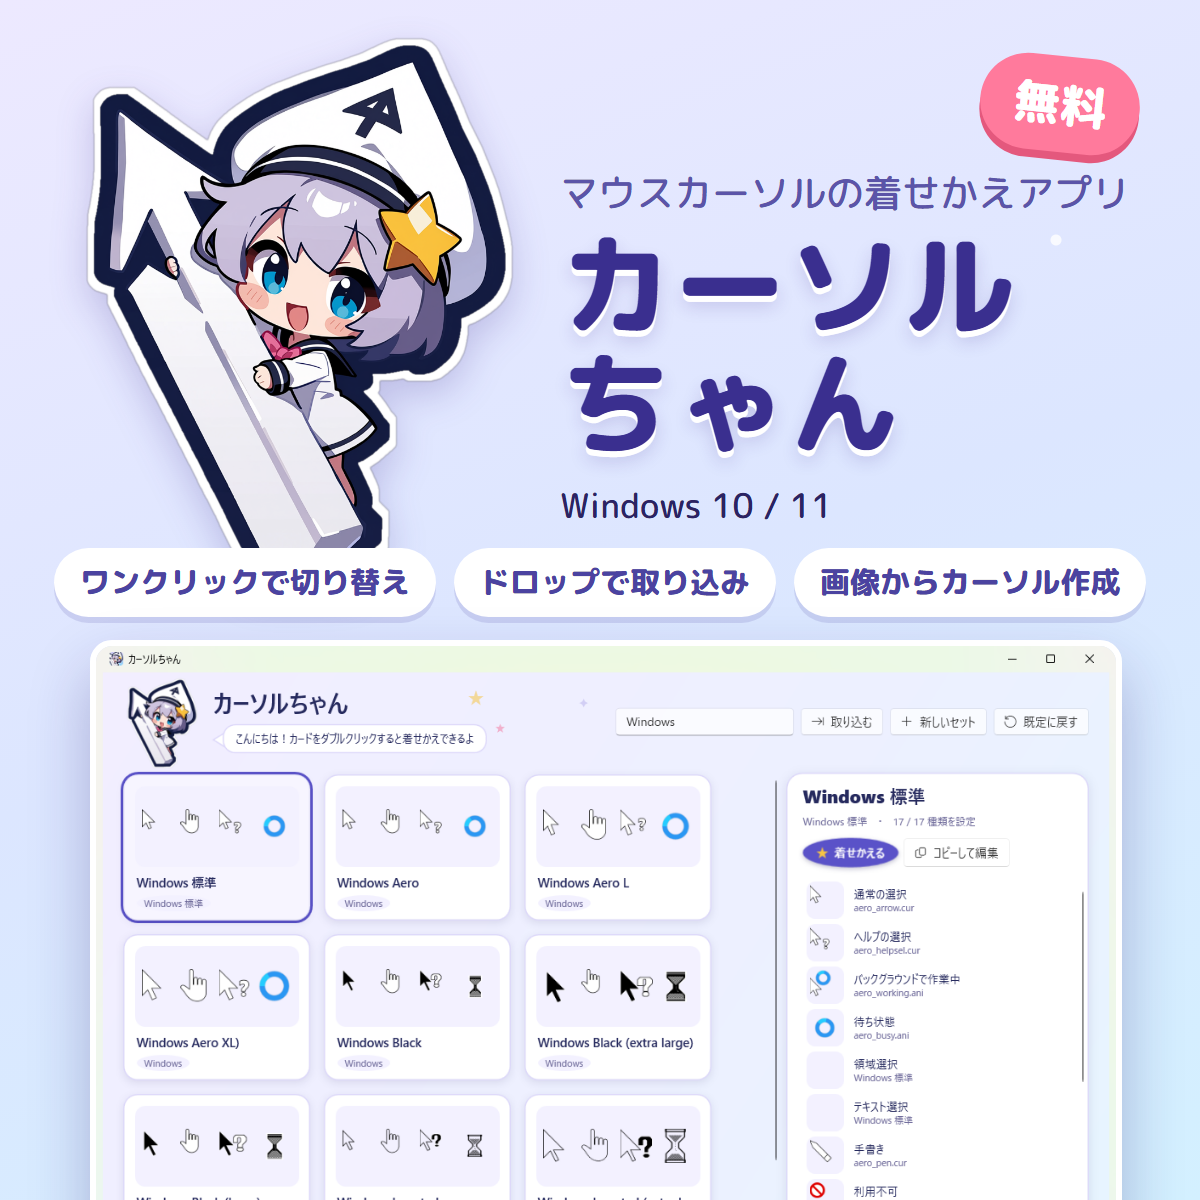
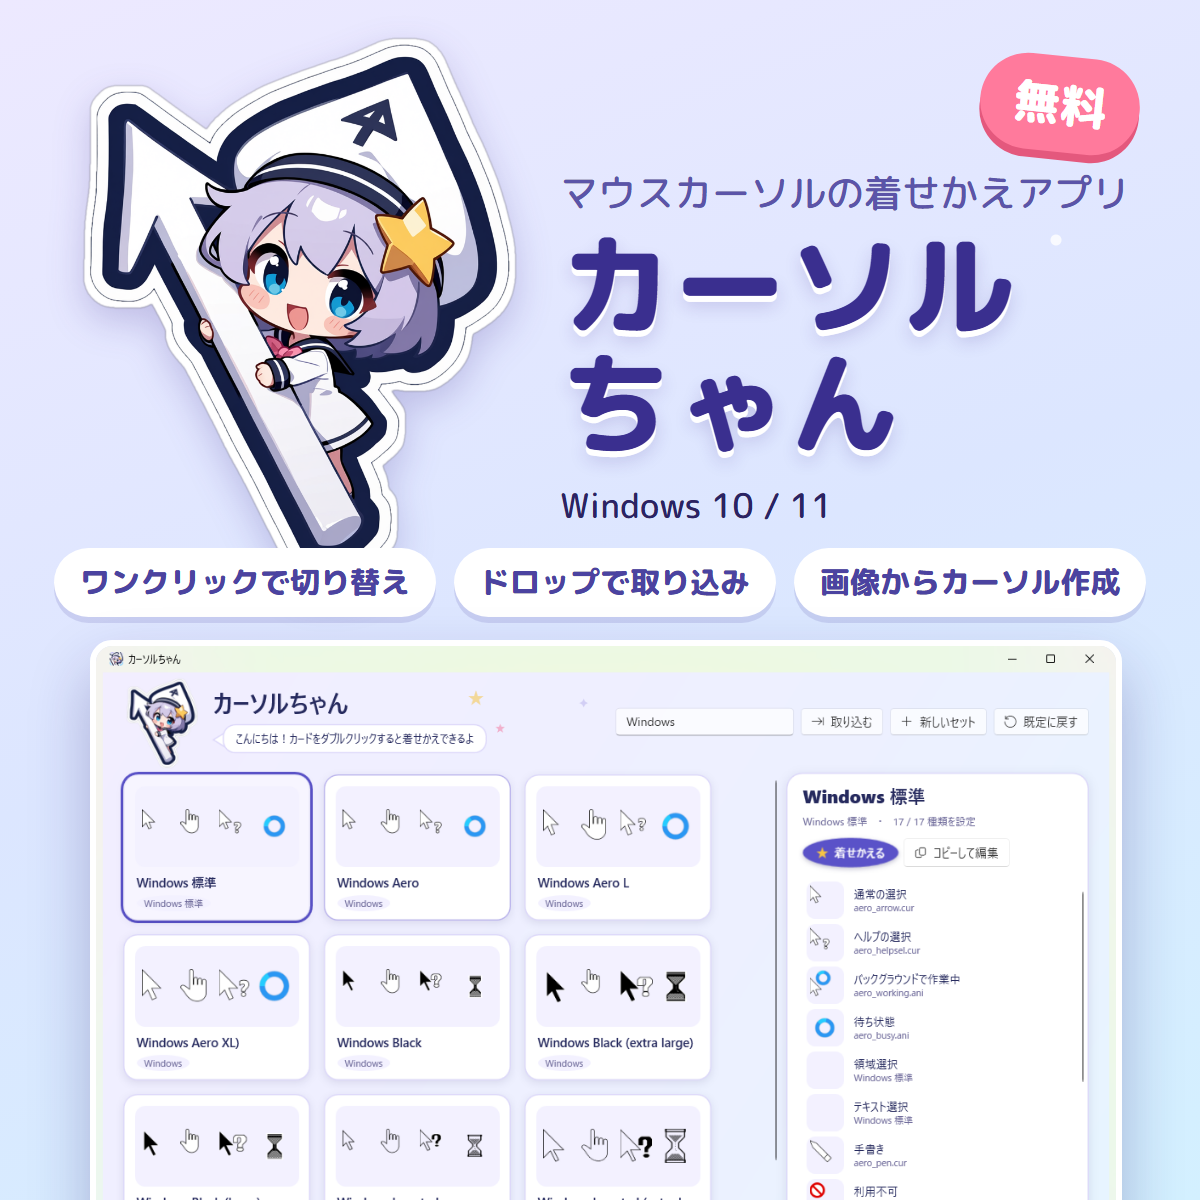
アプリ画面と BOOTH サムネイルのマスコットも、太くしていない 303 にそろえる

Changed region(s): [[0.0617, 0.0308, 0.4317, 0.4625], [0.0925, 0.555, 0.185, 0.6475]]

diff --git a/README.md b/README.md
@@ -20,11 +20,11 @@
 
 <img src="art/mascot-chibi.png" width="180" align="right" alt="カーソルちゃん">
 
-矢印カーソル形の帽子をかぶり、大きな矢印を抱えた「カーソルちゃん」が案内します。イラストは画像生成モデル Anima（ComfyUI）で作り、矢印を太くする手直しをしています。
+矢印カーソル形の帽子をかぶり、大きな矢印を抱えた「カーソルちゃん」が案内します。イラストは画像生成モデル Anima（ComfyUI）で作りました。
 
-- `art/mascot-chibi.png` … マスコットの透過画像（白いステッカー縁つき）
-- `art/mascot-icon.png` … アプリアイコン用（矢印を太くする前の元絵）
-- `art/anima/` … 生成と手直しのスクリプト（`make_chara.py` / `thicken.py`）と元絵
+- `art/mascot-chibi.png` … マスコットの透過画像（白いステッカー縁つき。アプリ画面・サムネイル用）
+- `art/mascot-icon.png` … アプリアイコン用（中身は同じ絵）
+- `art/anima/` … 生成のスクリプト（`make_chara.py`）、背景を抜いてステッカー縁を付ける `sticker.py`、矢印を太くした別案を作る `thicken.py` と元絵
 - `art/render.ps1` … HTML を Edge で PNG にするスクリプト
 - `art/icon.html` … アプリアイコンの元
 - `art/booth-thumbnail.html` … BOOTH 用サムネイル（1200 × 1200）の元
